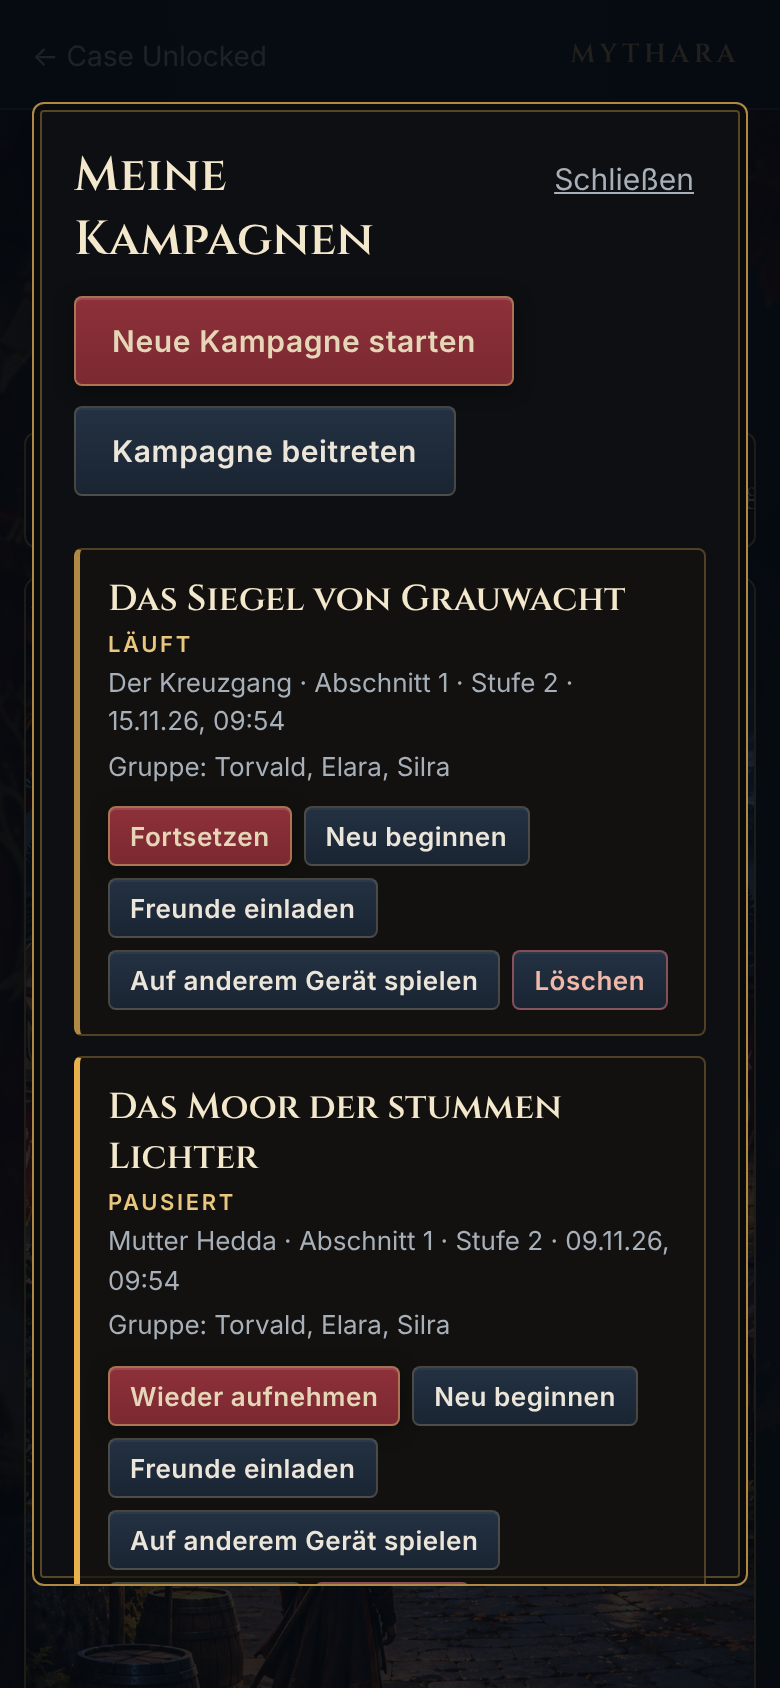
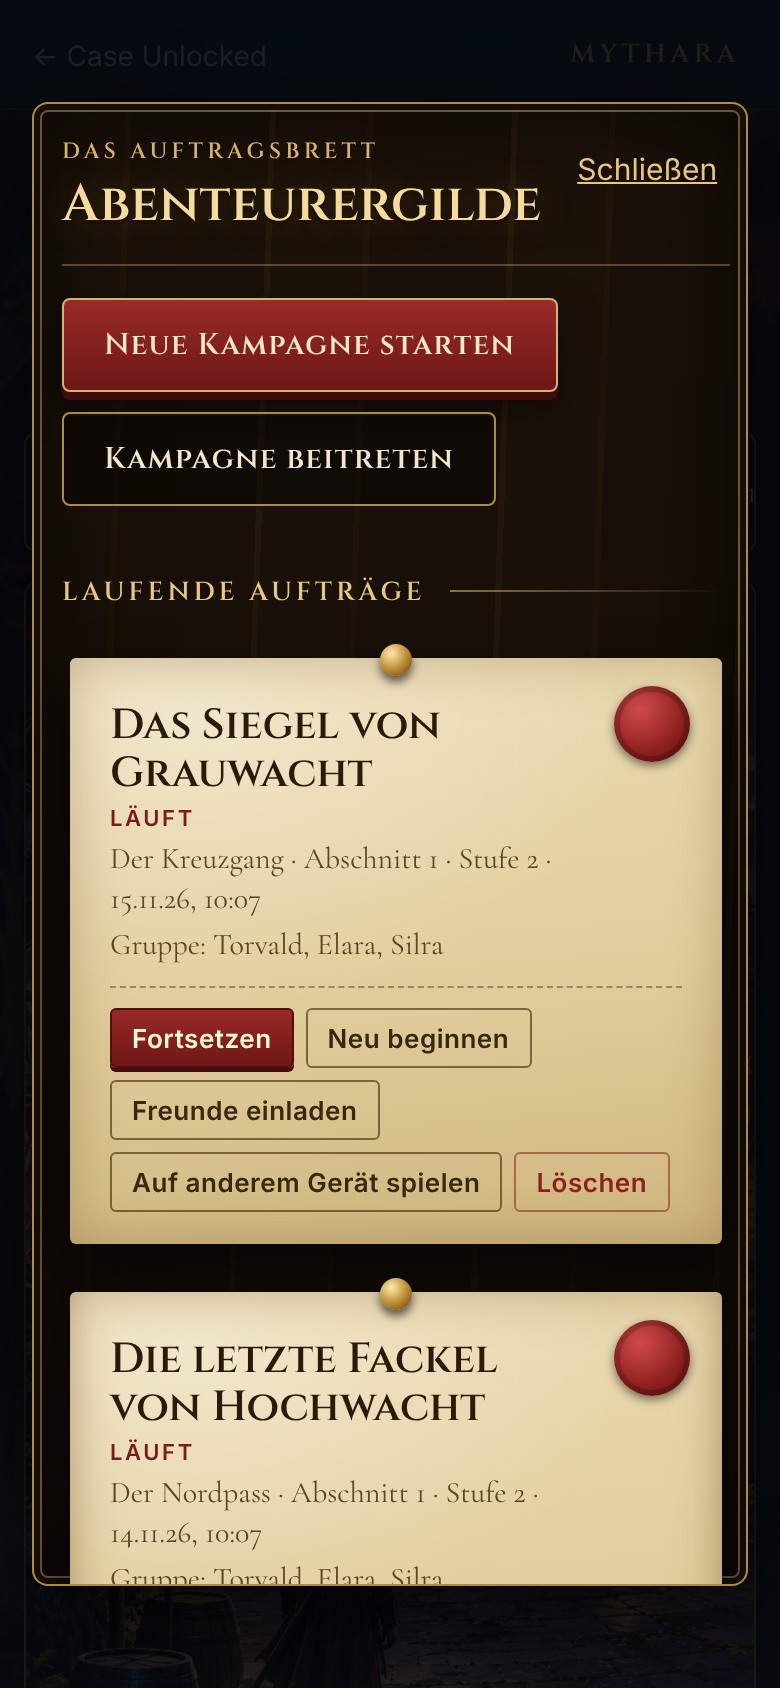
Zwischenstand: Seitentitel wie die Gebäude, Händler mit Hintergrundbild, Abenteurergilde als Auftragsbrett (Prototyp, noch nicht auf main)
Claude-Session: https://claude.ai/code/session_01TxcDgE19T8YxoXVtM1YLbF

diff --git a/abenteuer/js/mythara.js b/abenteuer/js/mythara.js
@@ -305,7 +305,7 @@
     const HL = window.ABH_HELDEN, F = window.ABF;
     if (SM && !SM.zustand().geladen) SM.laden().then(() => { const s = $("#hub-seite"); if (s && !s.hidden && s.querySelector("[data-heldenseite]")) heldenSeite(klasse, fid); });
     const frei = (f) => !smAktiv() || SM.frei(f);
-    if (!klasse) { seiteZeigen("helden", `<h1 class="hub-gruss">Charaktere</h1><p class="hub-untertitel">Fünf Klassen, fünfzehn Helden. Wähle eine Klasse, um ihre Helden kennenzulernen.</p>${sammlungKopf()}<div class="hub-helden" data-heldenseite>${HL.klassenWahl({ frei: smAktiv() ? frei : null })}</div>${smAktiv() && SM.zustand().konto && SM.zustand().stufenDa ? `<h2 class="hub-zwischen">Deine Helden</h2>${SM.heldenUebersichtHtml()}` : ""}`); return; }
+    if (!klasse) { seiteZeigen("helden", `<h1 class="hub-gruss">Heldenhalle</h1><p class="hub-untertitel">Fünf Klassen, fünfzehn Helden. Wähle eine Klasse, um ihre Helden kennenzulernen.</p>${sammlungKopf()}<div class="hub-helden" data-heldenseite>${HL.klassenWahl({ frei: smAktiv() ? frei : null })}</div>${smAktiv() && SM.zustand().konto && SM.zustand().stufenDa ? `<h2 class="hub-zwischen">Deine Helden</h2>${SM.heldenUebersichtHtml()}` : ""}`); return; }
     const helden = HL.vonKlasse(klasse); fid = fid || helden.find(frei) || helden[0];
     const gesperrt = !frei(fid) ? `<div class="sm-gesperrt">${SM.SCHLOSS}<span><b>Noch gesperrt.</b> ${esc(SM.gesperrtText())}</span></div>` : "";
     seiteZeigen("helden", `<div class="hub-helden" data-heldenseite>${HL.klassenLeiste(klasse).replace('id="klassen-zurueck"', 'data-held-klassen')}${HL.klassenKopf(klasse)}
@@ -405,19 +405,19 @@
   function regelnSeite() {
     // Grundlagen in einfachen Worten (js/hilfe.js); ohne das Modul bleibt der Kodex als Ersatz
     const H = window.ABHILFE;
-    seiteZeigen("regeln", `<h1 class="hub-gruss">Hilfe &amp; Regeln</h1><p class="hub-untertitel">Die Grundlagen, einfach erklärt. Ihr müsst nichts davon auswendig können: Das Spiel rechnet für euch.</p>${H ? `<div class="hub-text hilfe">${H.html()}</div>` : `<div class="hub-text kodex">${kopie('#kodex .seite:not([data-seite="6"])')}</div>`}`);
+    seiteZeigen("regeln", `<h1 class="hub-gruss">Hilfe</h1><p class="hub-untertitel">Die Grundlagen, einfach erklärt. Ihr müsst nichts davon auswendig können: Das Spiel rechnet für euch.</p>${H ? `<div class="hub-text hilfe">${H.html()}</div>` : `<div class="hub-text kodex">${kopie('#kodex .seite:not([data-seite="6"])')}</div>`}`);
     if (H) H.binden(document);
   }
   /** Lore: die Hintergründe der Welt bis zum Heute (Texte in js/lore.js) */
   function loreSeite() {
     const L = window.ABLORE || { welt: [] };
-    seiteZeigen("lore", `<div class="lore"><p class="shop-eyebrow">Die Splitterlande</p><h1 class="hub-gruss">Die Geschichte von Mythara</h1><p class="hub-untertitel">${esc(L.auftakt || "")}</p>
+    seiteZeigen("lore", `<div class="lore"><p class="shop-eyebrow">Der Splitterbrunnen</p><h1 class="hub-gruss">Die Geschichte von Mythara</h1><p class="hub-untertitel">${esc(L.auftakt || "")}</p>
       ${L.welt.map((k, i) => `<section class="lore-kapitel"><span class="lore-nr">${["I", "II", "III", "IV", "V", "VI", "VII", "VIII", "IX", "X"][i] || i + 1}</span><h2>${esc(k.titel)}</h2>${k.text.map((a) => `<p>${esc(a)}</p>`).join("")}</section>`).join("")}
       <p class="lore-schluss">${esc(L.schluss || "")}</p></div>`);
   }
   function weltSeite(abenteuer) {
     if (!abenteuer) {
-      seiteZeigen("welt", `<h1 class="hub-gruss">Kampagnenwelt</h1><p class="hub-untertitel">Die Splitterlande – und die Abenteuer, die dort auf euch warten.</p>
+      seiteZeigen("welt", `<h1 class="hub-gruss">Stadttor</h1><p class="hub-untertitel">Hinter dem Tor liegen die Splitterlande – und die Abenteuer, die dort auf euch warten.</p>
         <div class="hub-welt-liste">
           ${ABENTEUER().map((m) => abenteuerKachel(m, "data-welt")).join("")}
           <div class="hub-kachel welt bald" aria-disabled="true"><b>Weitere Abenteuer</b><small>sind in Vorbereitung.</small></div>
@@ -512,12 +512,12 @@
     }; });
   }
   async function freundeZeigen(suchErgebnis) {
-    if (!istKonto()) { fenster("Freunde", `<p class="note">Freunde gibt es mit einem Spielerkonto: Dann kannst du andere über ihren Benutzernamen finden und zu deinen Kampagnen einladen.</p><button class="my-knopf rot" data-profil="registrieren">Konto erstellen</button>`); return; }
-    let d; try { d = await netz().rpc("rpg_my_friends", {}); } catch (e) { fenster("Freunde", `<p class="fb">${esc(e.message)}</p>`); return; }
+    if (!istKonto()) { fenster("Taverne", `<p class="note">Freunde gibt es mit einem Spielerkonto: Dann kannst du andere über ihren Benutzernamen finden und zu deinen Kampagnen einladen.</p><button class="my-knopf rot" data-profil="registrieren">Konto erstellen</button>`); return; }
+    let d; try { d = await netz().rpc("rpg_my_friends", {}); } catch (e) { fenster("Taverne", `<p class="fb">${esc(e.message)}</p>`); return; }
     const zeile = (x, knoepfe) => `<li><span class="hub-avatar klein">${ava(x.avatar_key, x.handle)}</span><b>${esc(x.handle)}</b><span class="f-knoepfe">${knoepfe}</span></li>`;
     const s = suchErgebnis;
     const sKnopf = !s ? "" : s.beziehung === "freund" ? `<span class="f-info">Ihr seid befreundet.</span>` : s.beziehung === "angefragt" ? `<span class="f-info">Anfrage gesendet.</span>` : s.beziehung === "anfrage_an_mich" ? `<button class="btn klein" data-f="annehmen" data-name="${esc(s.handle)}">Anfrage annehmen</button>` : s.beziehung === "blockiert" ? `<button class="btn ghost klein" data-f="entsperren" data-name="${esc(s.handle)}">Entsperren</button>` : `<button class="btn klein" data-f="anfragen" data-name="${esc(s.handle)}">Freundschaftsanfrage senden</button>`;
-    const o = fenster("Freunde", `<form class="f-suche" id="f-suche"><label for="f-name">Spieler finden</label><div><input id="f-name" placeholder="Genauer Benutzername" maxlength="20" autocomplete="off" autocapitalize="off" spellcheck="false"><button class="btn klein" type="submit">Suchen</button></div><p class="my-fb" id="f-fb" role="status"></p></form>
+    const o = fenster("Taverne", `<form class="f-suche" id="f-suche"><label for="f-name">Spieler finden</label><div><input id="f-name" placeholder="Genauer Benutzername" maxlength="20" autocomplete="off" autocapitalize="off" spellcheck="false"><button class="btn klein" type="submit">Suchen</button></div><p class="my-fb" id="f-fb" role="status"></p></form>
       ${s ? `<ul class="f-liste treffer">${zeile(s, sKnopf)}</ul>` : ""}
       ${d.an_mich.length ? `<h3 class="f-unter">Anfragen an dich</h3><ul class="f-liste">${d.an_mich.map((x) => zeile(x, `<button class="btn klein" data-f="annehmen" data-name="${esc(x.handle)}">Annehmen</button><button class="btn ghost klein" data-f="ablehnen" data-name="${esc(x.handle)}">Ablehnen</button>`)).join("")}</ul>` : ""}
       <h3 class="f-unter">Deine Freunde (${d.freunde.length})</h3>

diff --git a/abenteuer/css/abenteuer.css b/abenteuer/css/abenteuer.css
@@ -1794,3 +1794,45 @@ small.meister, .fkarte small.meister, .gk-info small.meister { color: #ffd75e; }
 .hub-seite-inhalt:has([data-arena]) .arena-mein, .hub-seite-inhalt:has([data-arena]) .arena-liste li, .hub-seite-inhalt:has([data-arena]) .arena-team, .hub-seite-inhalt:has([data-arena]) .arena-info, .hub-seite-inhalt:has([data-arena]) .arena-held { background-color: rgba(8,8,11,.78); }
 .hub-seite-inhalt:has([data-arena]) .hub-gruss, .hub-seite-inhalt:has([data-arena]) .hub-untertitel, .hub-seite-inhalt:has([data-arena]) .note, .hub-seite-inhalt:has([data-arena]) .hub-zwischen { text-shadow: 0 2px 10px rgba(0,0,0,.95), 0 0 2px rgba(0,0,0,.9); }
 .hub-seite-inhalt:has([data-arena]) .note { color: #e6dcc6; }
+
+/* Händler: der Stand als Hintergrund */
+.hub-seite-inhalt:has(.shop), .hub-seite-inhalt:has(.shop-bald) { background: linear-gradient(180deg, rgba(8,8,11,.45) 0%, rgba(8,8,11,.66) 40%, rgba(8,8,11,.88) 100%), url("../img/dorf/haendler.webp") center / cover no-repeat; min-height: min(78vh, 760px); }
+.hub-seite-inhalt:has(.shop) .hub-gruss, .hub-seite-inhalt:has(.shop) .hub-untertitel, .hub-seite-inhalt:has(.shop) .note, .hub-seite-inhalt:has(.shop-bald) .hub-gruss, .hub-seite-inhalt:has(.shop-bald) .hub-untertitel { text-shadow: 0 2px 10px rgba(0,0,0,.95), 0 0 2px #000; }
+.hub-seite-inhalt:has(.shop) .shop-held { background: rgba(10,9,8,.82); backdrop-filter: blur(2px); }
+
+/* ---------- Abenteurergilde als Auftragsbrett (Prototyp): Holzbrett, Aushänge aus Pergament, Wachssiegel für den Stand ---------- */
+.karte-box.gilde { max-width: 1040px; padding: 22px 24px 26px; border: 1px solid #b08a45; border-radius: 8px;
+  background: linear-gradient(180deg, rgba(0,0,0,.35), rgba(0,0,0,.55)), repeating-linear-gradient(92deg, #2b1c10 0 46px, #33210f 46px 49px, #281a0e 49px 118px, #3a2613 118px 121px), #2b1c10;
+  box-shadow: inset 0 0 0 3px #150d06, inset 0 0 0 4px rgba(217,178,106,.45), inset 0 0 60px rgba(0,0,0,.7), 0 24px 70px rgba(0,0,0,.75); }
+.gilde .k-kopf { align-items: flex-start; padding-bottom: 12px; border-bottom: 1px solid rgba(217,178,106,.35); }
+.gilde-eyebrow { margin: 0 0 2px; font: 600 11px var(--schrift-titel); letter-spacing: .2em; text-transform: uppercase; color: #d9b26a; }
+.gilde .k-kopf h2 { font-size: clamp(26px, 4vw, 36px); color: #f6dc9c; text-shadow: 0 2px 0 #1a0f06, 0 0 22px rgba(246,200,110,.25); }
+.gilde .gilde-knoepfe { margin: 4px 0 6px; gap: 10px; }
+.gilde .gilde-knoepfe .btn { padding: 12px 20px; font: 600 15px var(--schrift-titel); letter-spacing: .04em; border-radius: 4px; }
+.gilde .gilde-knoepfe .btn:not(.ghost) { background: linear-gradient(180deg, #9a2a2a, #6d1717); border: 1px solid #d9b26a; color: #ffe9c4; box-shadow: 0 4px 0 #3d0c0c, 0 8px 18px rgba(0,0,0,.5); }
+.gilde .gilde-knoepfe .btn.ghost { background: rgba(0,0,0,.35); border: 1px solid #b08a45; color: #f3e7cc; }
+.gilde-zwischen { margin: 16px 0 2px; font: 600 13px var(--schrift-titel); letter-spacing: .16em; text-transform: uppercase; color: #e9c77e; display: flex; align-items: center; gap: 12px; }
+.gilde-zwischen::after { content: ""; flex: 1; height: 1px; background: linear-gradient(90deg, rgba(217,178,106,.6), transparent); }
+.gilde .k-liste { grid-template-columns: repeat(auto-fill, minmax(min(100%, 420px), 1fr)); gap: 22px 20px; padding: 12px 4px 4px; }
+.gilde .k-eintrag { position: relative; align-content: start; padding: 22px 20px 16px; border: 0; border-radius: 3px; color: #2c2013;
+  background: radial-gradient(120% 90% at 20% 10%, rgba(255,255,255,.35), transparent 55%), linear-gradient(175deg, #ecdcb4 0%, #e1cd9c 55%, #cfb67f 100%);
+  box-shadow: 0 10px 22px rgba(0,0,0,.6), inset 0 0 26px rgba(120,84,34,.35), inset 0 -8px 14px rgba(110,76,30,.22); transform: rotate(-.5deg); transition: transform .18s, box-shadow .18s; }
+.gilde .k-eintrag:nth-child(even) { transform: rotate(.6deg); }
+.gilde .k-eintrag:hover { transform: rotate(0) translateY(-2px); box-shadow: 0 16px 30px rgba(0,0,0,.7), inset 0 0 26px rgba(120,84,34,.35); }
+.gilde .k-eintrag::before { content: ""; position: absolute; top: -7px; left: 50%; width: 16px; height: 16px; margin-left: -8px; border-radius: 50%; background: radial-gradient(circle at 35% 30%, #ffe9a8, #b8862f 55%, #5d3f10); box-shadow: 0 3px 5px rgba(0,0,0,.6); }
+.gilde .k-eintrag::after { content: ""; position: absolute; top: 14px; right: 16px; width: 38px; height: 38px; border-radius: 50%; background: radial-gradient(circle at 35% 30%, #d04a4a, #8e1f1f 60%, #5a0f0f); box-shadow: 0 2px 5px rgba(0,0,0,.5), inset 0 0 0 3px rgba(0,0,0,.18); }
+.gilde .k-eintrag[data-status="pausiert"]::after { background: radial-gradient(circle at 35% 30%, #f0c668, #b9842a 60%, #6e4a10); }
+.gilde .k-eintrag[data-status="abgeschlossen"]::after, .gilde .k-eintrag[data-status="archiviert"]::after { background: radial-gradient(circle at 35% 30%, #9aa3ad, #5c646e 60%, #353b43); }
+.gilde .k-eintrag[data-status="geplant"]::after { background: radial-gradient(circle at 35% 30%, #7fb08a, #3f7650 60%, #214430); }
+.gilde .k-eintrag[data-status="abgeschlossen"], .gilde .k-eintrag[data-status="archiviert"] { opacity: 1; filter: saturate(.7); }
+.gilde .k-text { padding-right: 46px; } .gilde .k-text b { color: #2a1a0b; font-size: 21px; line-height: 1.15; }
+.gilde .k-status { color: #7a1c1c; } .gilde .k-eintrag[data-status="pausiert"] .k-status { color: #8a5a0a; }
+.gilde .k-text small { color: #5b4526; font: 15px/1.35 "Cormorant Garamond", Georgia, serif; }
+.gilde .k-knoepfe { padding-top: 10px; border-top: 1px dashed rgba(90,62,24,.5); }
+.gilde .k-knoepfe .btn { background: transparent; border: 1px solid rgba(70,46,16,.65); color: #3a2710; box-shadow: none; border-radius: 3px; }
+.gilde .k-knoepfe .btn:not(.ghost) { background: linear-gradient(180deg, #8f2626, #671515); border-color: #4a0f0f; color: #ffe9c4; box-shadow: 0 2px 0 #3d0c0c; }
+.gilde .k-knoepfe .btn.gefahr { color: #8e1f1f; border-color: rgba(142,31,31,.55); }
+.gilde .k-knoepfe .btn:hover { filter: brightness(1.08); }
+.gilde .note { color: #d9ccb0; } .gilde .link { color: #e9c77e; }
+.gilde .k-lokal { background: rgba(0,0,0,.35); border-color: #d9b26a; color: #f3e7cc; }
+@media (max-width: 560px) { .karte-box.gilde { padding: 16px 14px 20px; } .gilde .k-eintrag, .gilde .k-eintrag:nth-child(even) { transform: none; } }

diff --git a/abenteuer/js/kampagnen.js b/abenteuer/js/kampagnen.js
@@ -162,7 +162,7 @@
   let archivOffen = false;
   function box(inhalt) {
     const o = $("#qr-overlay");
-    o.innerHTML = `<div class="karte-box kampagnen" role="dialog" aria-labelledby="k-titel"><div class="k-kopf"><h2 id="k-titel">Abenteurergilde</h2><button class="link" id="k-zu">Schließen</button></div><div class="knoepfe gilde-knoepfe"><button class="btn" data-hub="neu">Neue Kampagne starten</button><button class="btn ghost" data-hub="beitreten">Kampagne beitreten</button></div>${inhalt}</div>`;
+    o.innerHTML = `<div class="karte-box kampagnen gilde" role="dialog" aria-labelledby="k-titel"><div class="k-kopf"><div><p class="gilde-eyebrow">Das Auftragsbrett</p><h2 id="k-titel">Abenteurergilde</h2></div><button class="link" id="k-zu">Schließen</button></div><div class="knoepfe gilde-knoepfe"><button class="btn" data-hub="neu">Neue Kampagne starten</button><button class="btn ghost" data-hub="beitreten">Kampagne beitreten</button></div>${inhalt}</div>`;
     o.hidden = false; $("#k-zu").onclick = () => { o.hidden = true; };
     o.querySelectorAll(".gilde-knoepfe [data-hub]").forEach((b) => b.addEventListener("click", () => { o.hidden = true; })); // weiter geht es über die Startseite (js/mythara.js)
     return o;
@@ -198,7 +198,9 @@
     const offen = liste.filter((c) => c.status !== "archiviert"), archiv = liste.filter((c) => c.status === "archiviert");
     const lokal = window.ABT && window.ABT.gespeichert() && !(K && K.id) ? `<div class="k-lokal"><p>In diesem Browser liegt ein Abenteuer ohne Kampagne.</p><button class="btn klein" data-k="uebernehmen">Als Kampagne speichern</button></div>` : "";
     const o = box(`${lokal}
-      ${offen.length ? `<ul class="k-liste">${offen.map(eintrag).join("")}</ul>` : `<p class="note">Noch keine Kampagne. Startet ein Abenteuer – es wird automatisch als Kampagne gespeichert.</p>`}
+      ${offen.length ? [["Laufende Aufträge", (c) => c.status === "aktiv" || c.status === "geplant"], ["Pausiert – wartet auf euch", (c) => c.status === "pausiert"], ["Erledigt", (c) => c.status === "abgeschlossen"]]
+          .map(([titel, f]) => { const l = offen.filter(f); return l.length ? `<h3 class="gilde-zwischen">${titel}</h3><ul class="k-liste">${l.map(eintrag).join("")}</ul>` : ""; }).join("")
+        : `<p class="note gilde-leer">Am Brett hängt noch nichts. Startet ein Abenteuer – es wird automatisch als Kampagne gespeichert.</p>`}
       ${archiv.length ? `<button class="link" id="k-archiv">${archivOffen ? "Archiv ausblenden" : `Archiv anzeigen (${archiv.length})`}</button>${archivOffen ? `<ul class="k-liste archiv">${archiv.map(eintrag).join("")}</ul>` : ""}` : ""}
       <p class="note klein">${window.MYTHARA && window.MYTHARA.istKonto() ? "Deine Kampagnen sind mit deinem Konto verbunden." : "Als Gast gehören deine Kampagnen zu diesem Browser. Mit einem Konto hast du sie auf jedem Gerät."}</p>`);
     const a = $("#k-archiv"); if (a) a.onclick = () => { archivOffen = !archivOffen; bibliothek(); };

diff --git a/abenteuer/index.html b/abenteuer/index.html
@@ -13,7 +13,7 @@
   <meta name="apple-mobile-web-app-status-bar-style" content="black-translucent">
   <meta name="apple-mobile-web-app-title" content="Mythara">
   <link rel="manifest" href="manifest.webmanifest">
-  <link rel="stylesheet" href="css/abenteuer.css?v=68">
+  <link rel="stylesheet" href="css/abenteuer.css?v=69">
   <link rel="stylesheet" href="css/sammlung.css?v=5">
 </head>
 <body>
@@ -269,8 +269,8 @@
   <script src="js/abenteuer-tisch.js?v=33"></script>
   <script src="js/einstieg.js?v=8"></script>
   <script src="js/hilfe.js?v=6"></script>
-  <script src="js/mythara.js?v=42"></script>
-  <script src="js/kampagnen.js?v=23"></script>
+  <script src="js/mythara.js?v=43"></script>
+  <script src="js/kampagnen.js?v=24"></script>
   <script src="js/arena.js?v=7"></script>
   <script src="js/app.js?v=1"></script>
 </body>

diff --git a/abenteuer/handy.html b/abenteuer/handy.html
@@ -12,7 +12,7 @@
   <meta name="apple-mobile-web-app-capable" content="yes">
   <meta name="apple-mobile-web-app-status-bar-style" content="black-translucent">
   <meta name="apple-mobile-web-app-title" content="Mythara">
-  <link rel="stylesheet" href="css/abenteuer.css?v=68">
+  <link rel="stylesheet" href="css/abenteuer.css?v=69">
   <link rel="stylesheet" href="css/sammlung.css?v=5">
 </head>
 <body class="handy">
